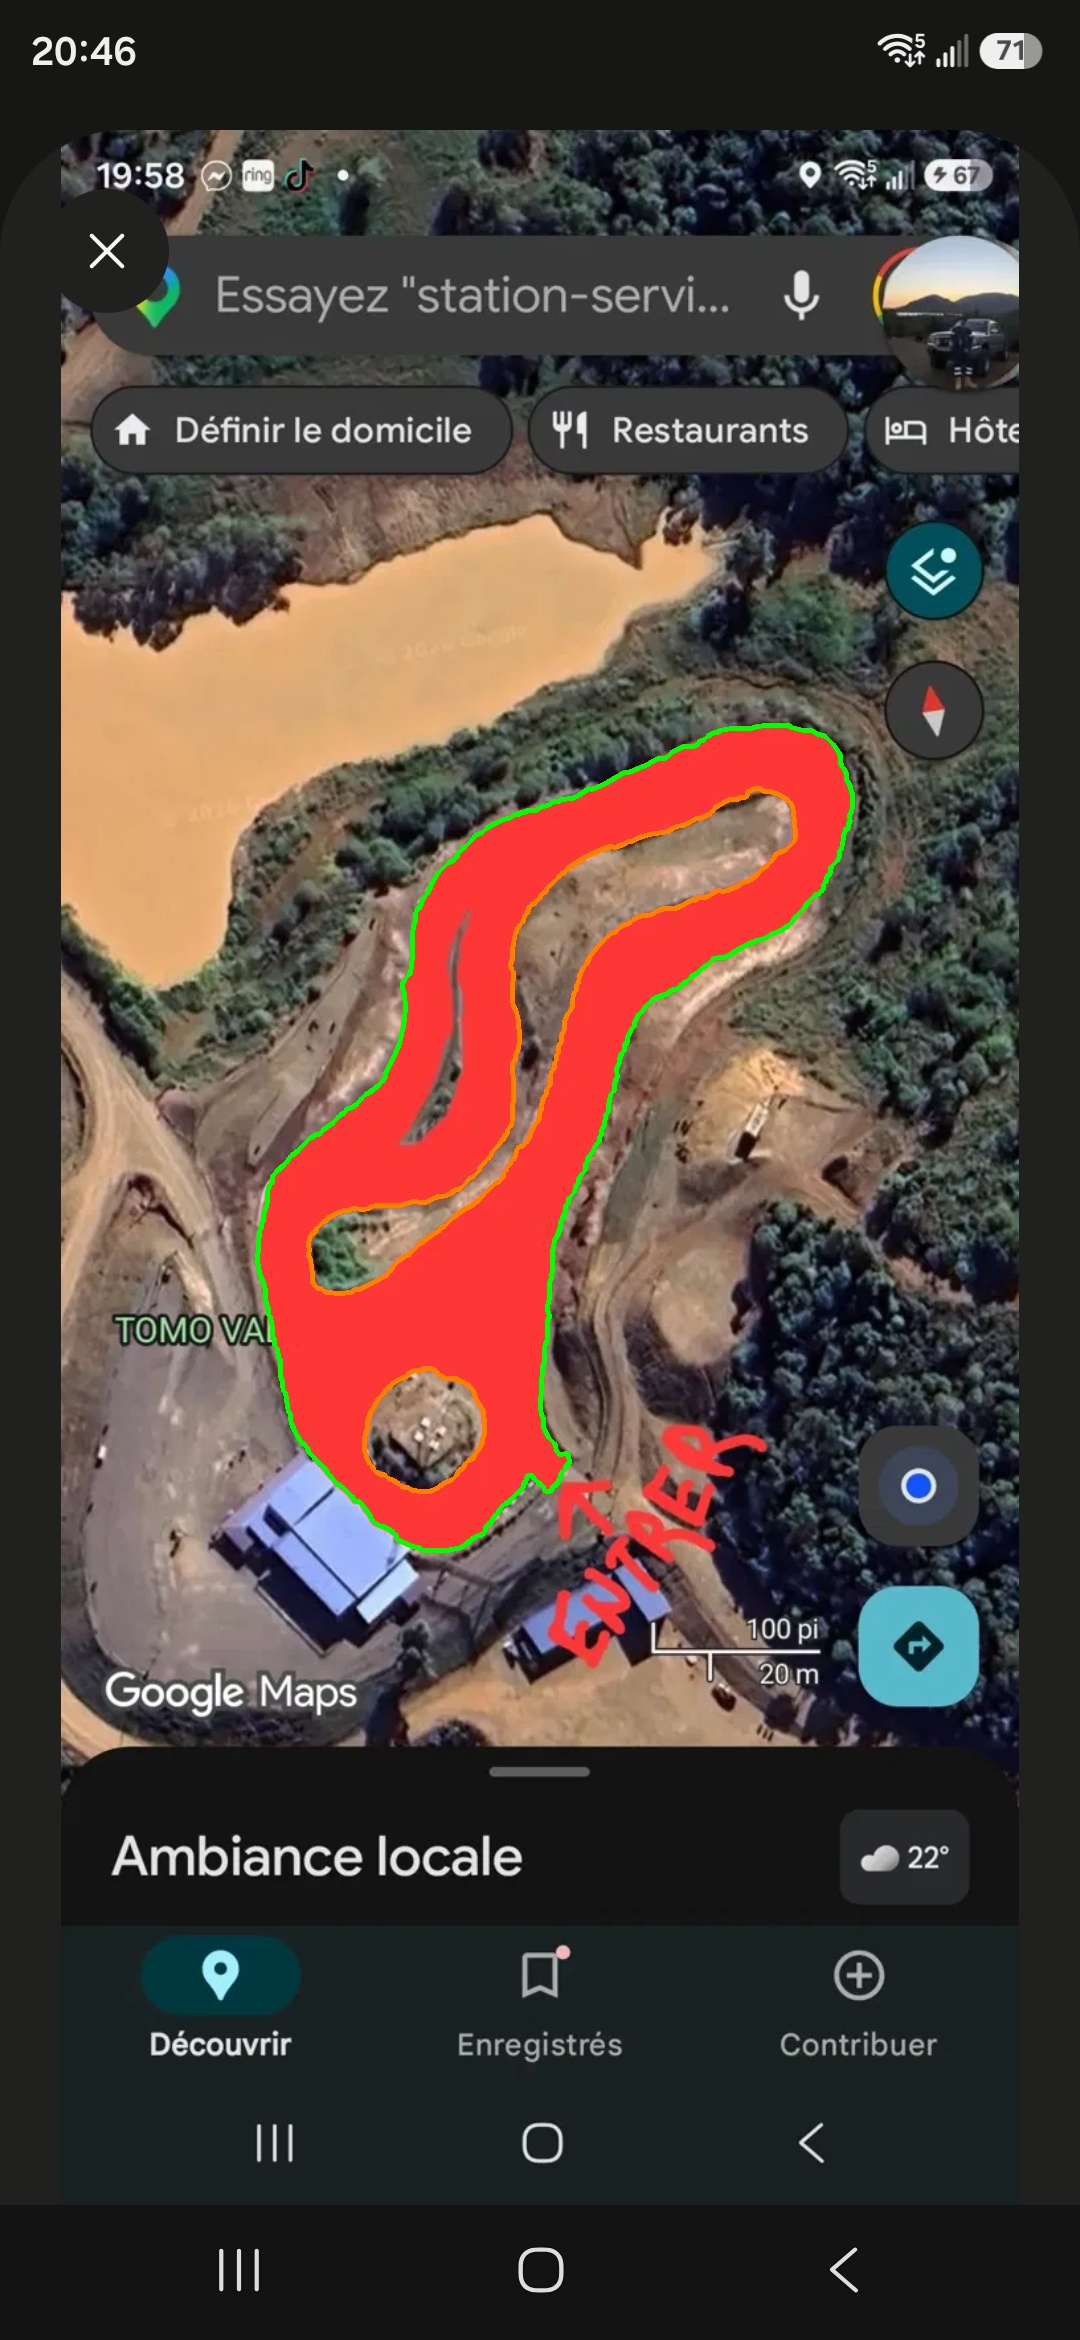
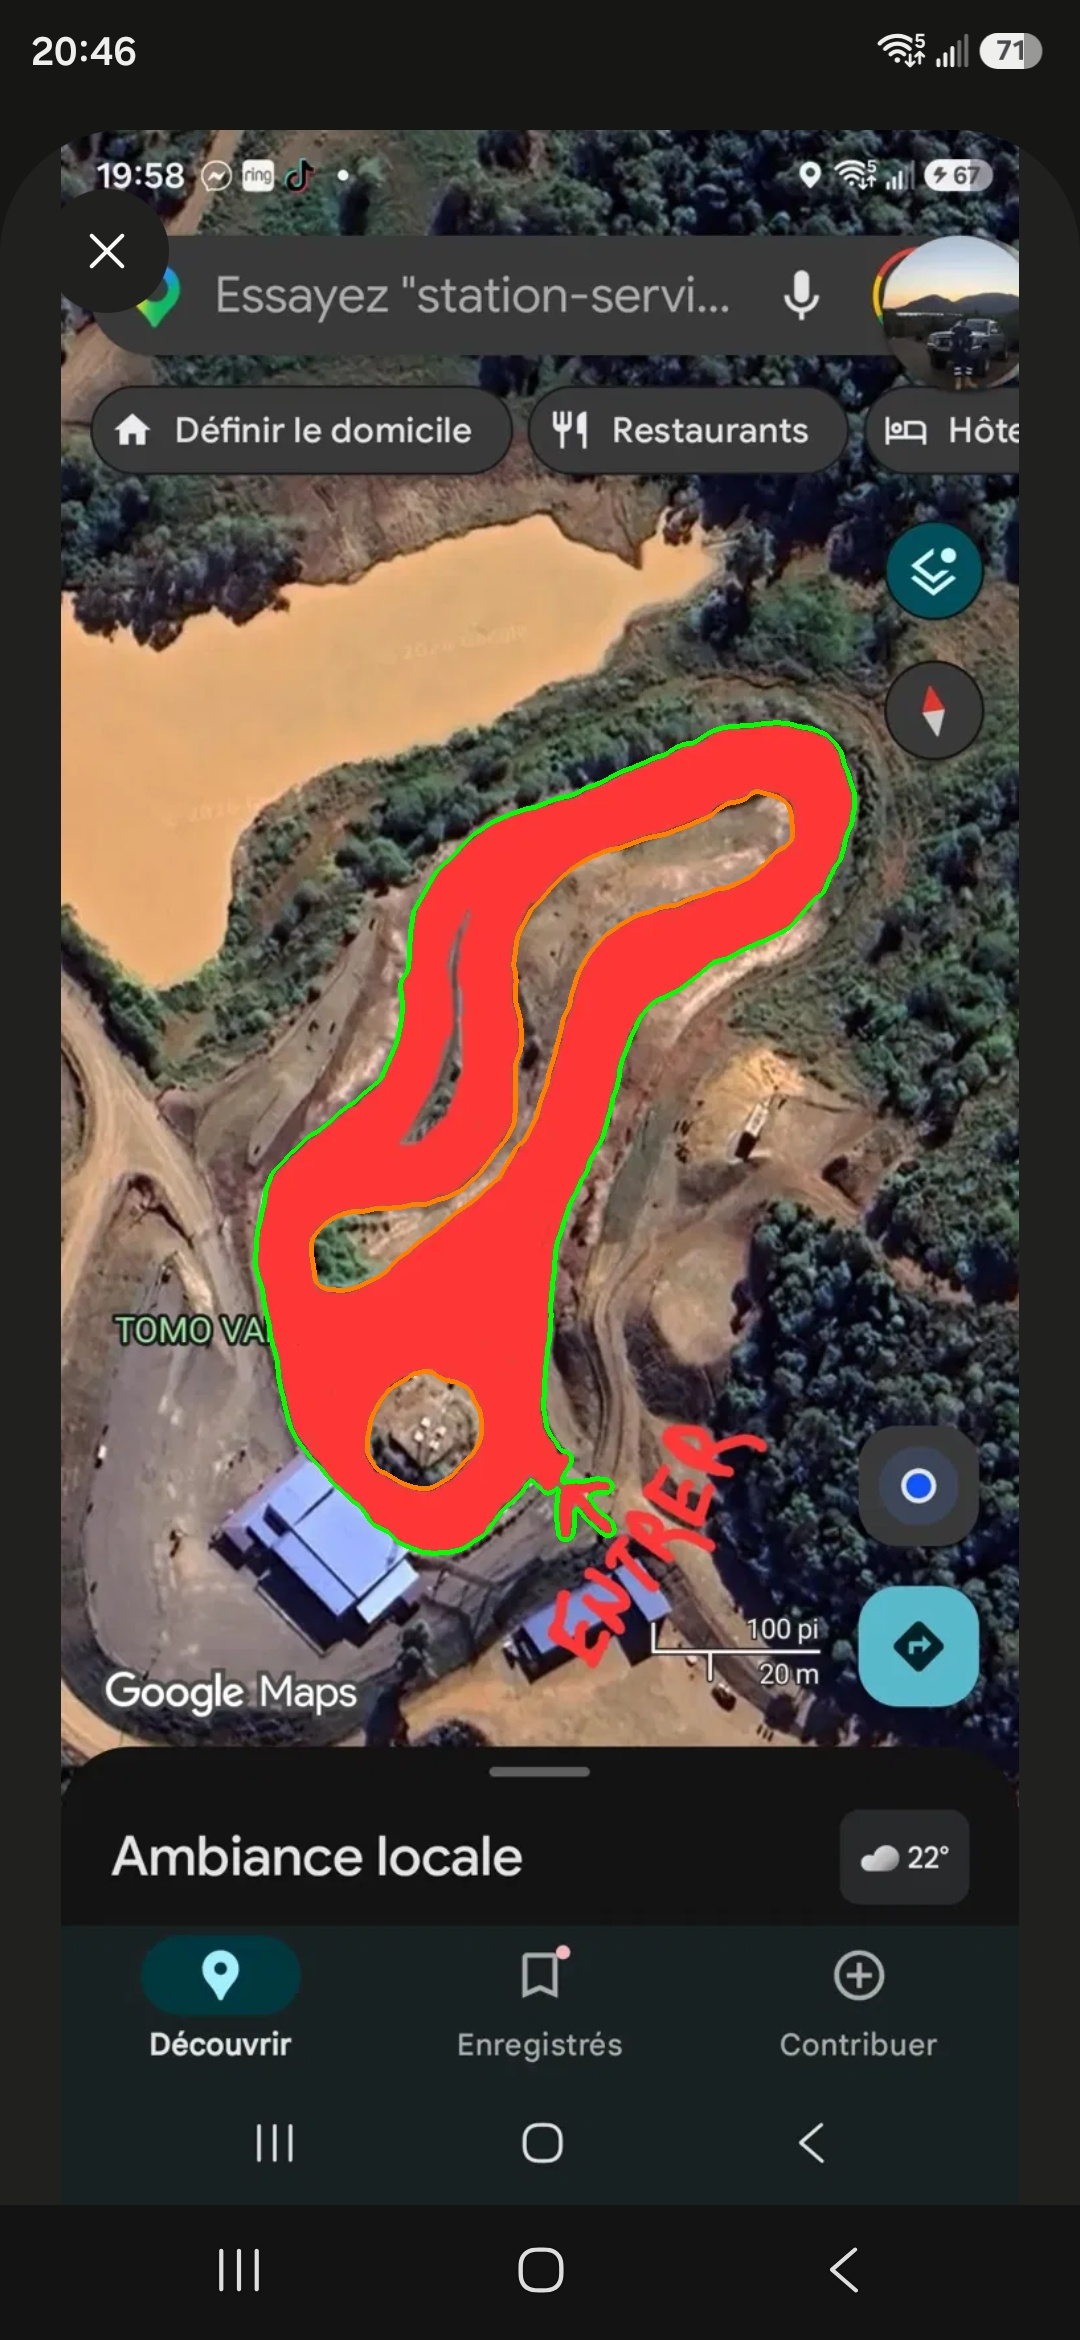
Smooth SVG contours with Gaussian blur + Catmull-Rom Bézier
Pre-processes the red mask with Gaussian blur (σ=21) before contour
detection, then resamples each contour to equidistant points and
converts to cubic Bézier curves (Catmull-Rom, tension=0.4) for smooth
SVG paths without distorting the original trace shape.

https://claude.ai/code/session_01WNAMiwgDj25DHuotbzP2Ts

diff --git a/extract_contours.py b/extract_contours.py
@@ -2,8 +2,8 @@ import cv2
 import numpy as np
 
 IMG_PATH = "/root/.claude/uploads/f053a387-14bf-59d7-9a67-fe335885bb38/f720f6b7-1000020912.jpg"
-OUT_FULL  = "/home/user/Spinfinity/track_contours.svg"
-OUT_CROP  = "/home/user/Spinfinity/track_contours_crop.svg"
+OUT_FULL = "/home/user/Spinfinity/track_contours.svg"
+OUT_CROP = "/home/user/Spinfinity/track_contours_crop.svg"
 
 img = cv2.imread(IMG_PATH)
 img_rgb = cv2.cvtColor(img, cv2.COLOR_BGR2RGB)
@@ -15,11 +15,17 @@ g = img_rgb[:,:,1].astype(int)
 b = img_rgb[:,:,2].astype(int)
 red_mask = ((r > 150) & (g < 80) & (b < 80)).astype(np.uint8) * 255
 
-kernel = cv2.getStructuringElement(cv2.MORPH_ELLIPSE, (5,5))
-red_mask = cv2.morphologyEx(red_mask, cv2.MORPH_CLOSE, kernel)
-red_mask = cv2.morphologyEx(red_mask, cv2.MORPH_OPEN, kernel)
+# Morphological cleanup
+k5 = cv2.getStructuringElement(cv2.MORPH_ELLIPSE, (5, 5))
+red_mask = cv2.morphologyEx(red_mask, cv2.MORPH_CLOSE, k5)
+red_mask = cv2.morphologyEx(red_mask, cv2.MORPH_OPEN, k5)
 
-contours, hierarchy = cv2.findContours(red_mask, cv2.RETR_CCOMP, cv2.CHAIN_APPROX_TC89_KCOS)
+# ── Smooth edges with Gaussian blur then re-threshold ──────────────────────────
+blurred = cv2.GaussianBlur(red_mask.astype(np.float32), (21, 21), 0)
+smooth_mask = (blurred > 60).astype(np.uint8) * 255
+
+# Contour detection on smoothed mask
+contours, hierarchy = cv2.findContours(smooth_mask, cv2.RETR_CCOMP, cv2.CHAIN_APPROX_NONE)
 
 MIN_AREA = 3000
 track_outer = None
@@ -40,37 +46,48 @@ print(f"Outer: area={track_outer[2]:.0f}, raw pts={len(track_outer[1])}")
 for idx, cnt, area in track_holes:
     print(f"  Hole {idx}: area={area:.0f}, pts={len(cnt)}")
 
-def approx_to_path(cnt, epsilon=0.001):
-    peri = cv2.arcLength(cnt, True)
-    eps = max(0.8, epsilon * peri)
-    approx = cv2.approxPolyDP(cnt, eps, True)
-    pts = approx.reshape(-1, 2)
-    if len(pts) < 3:
-        return "", pts
-    d = f"M {pts[0][0]:.1f},{pts[0][1]:.1f}"
-    for pt in pts[1:]:
-        d += f" L {pt[0]:.1f},{pt[1]:.1f}"
-    d += " Z"
-    return d, pts
+# ── Catmull-Rom → Cubic Bézier conversion ──────────────────────────────────────
+def catmull_rom_to_bezier(pts, tension=0.5):
+    """Convert Catmull-Rom spline points to SVG cubic bezier path (closed)."""
+    n = len(pts)
+    if n < 3:
+        return ""
+    path = f"M {pts[0][0]:.1f},{pts[0][1]:.1f}"
+    for i in range(n):
+        p0 = pts[(i - 1) % n]
+        p1 = pts[i]
+        p2 = pts[(i + 1) % n]
+        p3 = pts[(i + 2) % n]
+        # Control points
+        cp1x = p1[0] + (p2[0] - p0[0]) * tension / 3
+        cp1y = p1[1] + (p2[1] - p0[1]) * tension / 3
+        cp2x = p2[0] - (p3[0] - p1[0]) * tension / 3
+        cp2y = p2[1] - (p3[1] - p1[1]) * tension / 3
+        path += f" C {cp1x:.1f},{cp1y:.1f} {cp2x:.1f},{cp2y:.1f} {p2[0]:.1f},{p2[1]:.1f}"
+    path += " Z"
+    return path
 
-outer_d, outer_pts = approx_to_path(track_outer[1], 0.0008)
+def smooth_contour_path(cnt, n_pts=120, tension=0.5):
+    """Resample contour to n_pts equidistant points then apply Catmull-Rom."""
+    pts = cnt.reshape(-1, 2).astype(float)
+    # Compute arc-length parameterization (open chain, wrap manually)
+    diffs = np.diff(pts, axis=0)
+    dists = np.sqrt((diffs**2).sum(axis=1))
+    cumsum = np.concatenate([[0], np.cumsum(dists)])  # length n
+    total = cumsum[-1]
+    t = np.linspace(0, total, n_pts, endpoint=False)
+    # Interpolate x and y
+    xs = np.interp(t, cumsum, pts[:,0])
+    ys = np.interp(t, cumsum, pts[:,1])
+    resampled = list(zip(xs, ys))
+    return catmull_rom_to_bezier(resampled, tension)
+
+# Number of points: more for outer (longer), fewer for holes
+outer_d = smooth_contour_path(track_outer[1], n_pts=160, tension=0.4)
 holes_d = []
-for _, cnt, _ in track_holes:
-    d, _ = approx_to_path(cnt, 0.001)
-    if d:
-        holes_d.append(d)
-
-# Bounding box of the track with padding
-all_cnts = [track_outer[1]] + [cnt for _, cnt, _ in track_holes]
-all_pts = np.vstack([c.reshape(-1, 2) for c in all_cnts])
-x0, y0 = int(all_pts[:,0].min()), int(all_pts[:,1].min())
-x1, y1 = int(all_pts[:,0].max()), int(all_pts[:,1].max())
-PAD = 30
-x0, y0 = max(0, x0-PAD), max(0, y0-PAD)
-x1, y1 = min(W, x1+PAD), min(H, y1+PAD)
-cw, ch = x1-x0, y1-y0
-
-print(f"\nBounding box: ({x0},{y0}) -> ({x1},{y1}), size={cw}x{ch}")
+for _, cnt, area in track_holes:
+    n = max(40, min(100, int(len(cnt) * 0.6)))
+    holes_d.append(smooth_contour_path(cnt, n_pts=n, tension=0.4))
 
 combined_d = outer_d + " " + " ".join(holes_d)
 
@@ -79,34 +96,50 @@ def make_svg(vx, vy, vw, vh, out_w=None, out_h=None):
     oh = out_h or vh
     hole_paths = "\n  ".join(
         f'<path fill="none" stroke="#CC0000" stroke-width="3" stroke-linejoin="round" d="{d}"/>'
-        for d in holes_d
+        for d in holes_d if d
     )
     return f'''<?xml version="1.0" encoding="UTF-8"?>
 <svg xmlns="http://www.w3.org/2000/svg"
      width="{ow}" height="{oh}"
      viewBox="{vx} {vy} {vw} {vh}">
 
-  <!-- Track fill (evenodd: interior voids = transparent) -->
-  <path
-    fill-rule="evenodd"
-    fill="rgba(220,30,30,0.30)"
-    d="{combined_d}"/>
+  <!-- Track fill: evenodd so holes are transparent -->
+  <path fill-rule="evenodd" fill="rgba(220,30,30,0.30)"
+        d="{combined_d}"/>
 
-  <!-- Exterior contour -->
+  <!-- Exterior contour (smooth) -->
   <path fill="none" stroke="#FF0000" stroke-width="3.5"
-        stroke-linejoin="round" d="{outer_d}"/>
+        stroke-linejoin="round" stroke-linecap="round"
+        d="{outer_d}"/>
 
-  <!-- Interior contours -->
+  <!-- Interior contours (smooth) -->
   {hole_paths}
 </svg>'''
 
-# Full-image SVG
+# Bounding box
+all_pts = np.vstack([track_outer[1].reshape(-1,2)] + [c.reshape(-1,2) for _,c,_ in track_holes])
+x0, y0 = int(all_pts[:,0].min()), int(all_pts[:,1].min())
+x1, y1 = int(all_pts[:,0].max()), int(all_pts[:,1].max())
+PAD = 40
+x0, y0 = max(0, x0-PAD), max(0, y0-PAD)
+x1, y1 = min(W, x1+PAD), min(H, y1+PAD)
+cw, ch = x1-x0, y1-y0
+
 with open(OUT_FULL, "w") as f:
     f.write(make_svg(0, 0, W, H))
-print(f"Full SVG saved: {OUT_FULL}")
+print(f"Full SVG: {OUT_FULL}")
 
-# Cropped SVG (track only, ~800px wide for readability)
 scale = 800 / cw
 with open(OUT_CROP, "w") as f:
     f.write(make_svg(x0, y0, cw, ch, int(cw*scale), int(ch*scale)))
-print(f"Crop SVG saved: {OUT_CROP}")
+print(f"Crop SVG: {OUT_CROP}")
+
+# Debug image
+debug = img.copy()
+# Re-extract from smooth mask for display
+contours2, hier2 = cv2.findContours(smooth_mask, cv2.RETR_CCOMP, cv2.CHAIN_APPROX_NONE)
+cv2.drawContours(debug, [track_outer[1]], -1, (0,255,0), 3)
+for _, cnt, _ in track_holes:
+    cv2.drawContours(debug, [cnt], -1, (0,128,255), 3)
+cv2.imwrite("/home/user/Spinfinity/debug_contours.jpg", debug)
+print("Debug image saved.")
